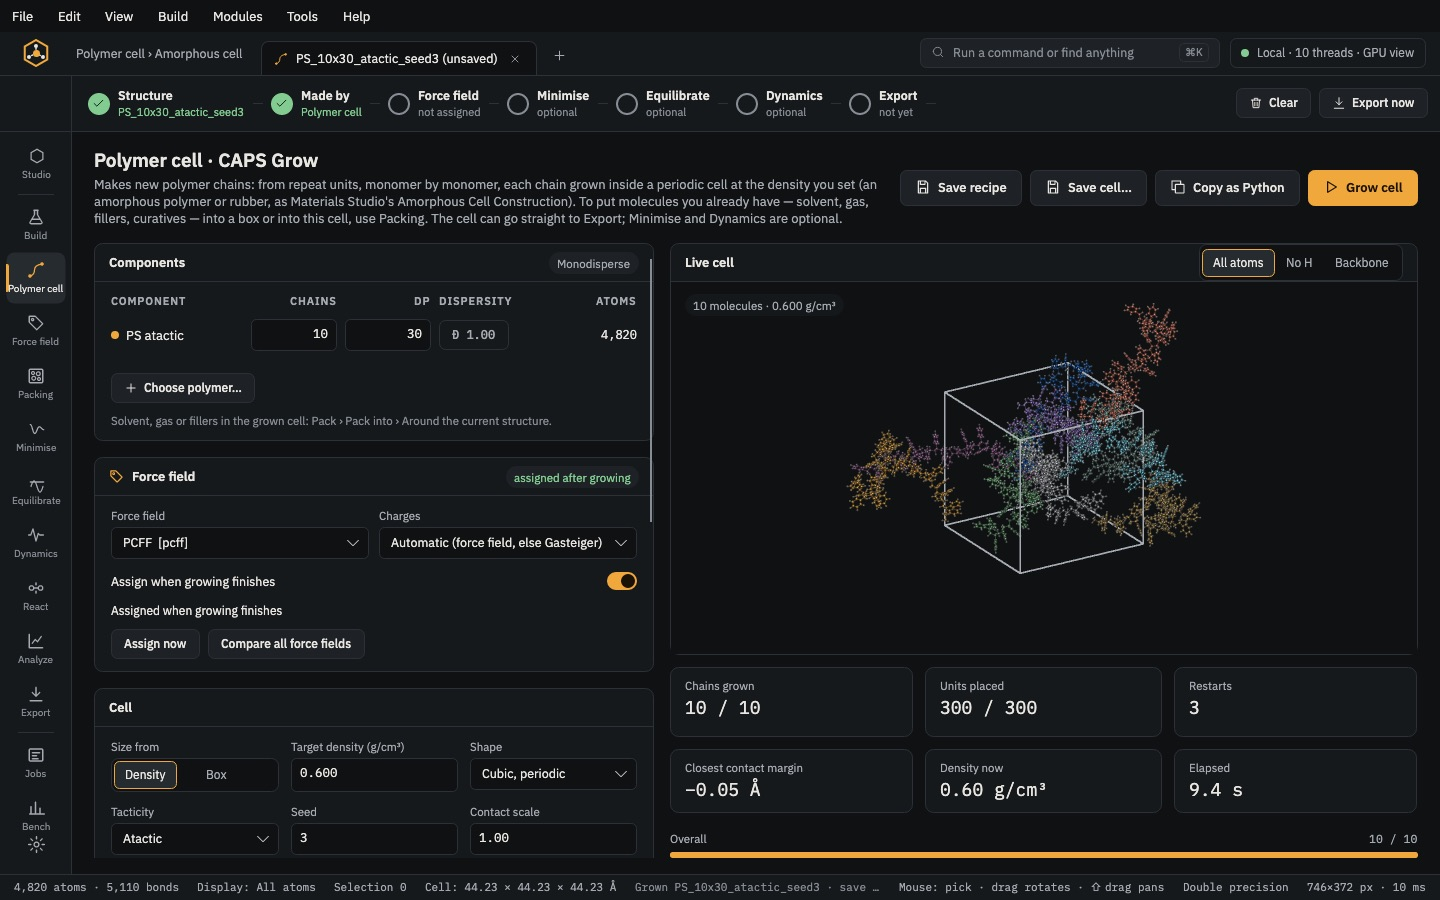
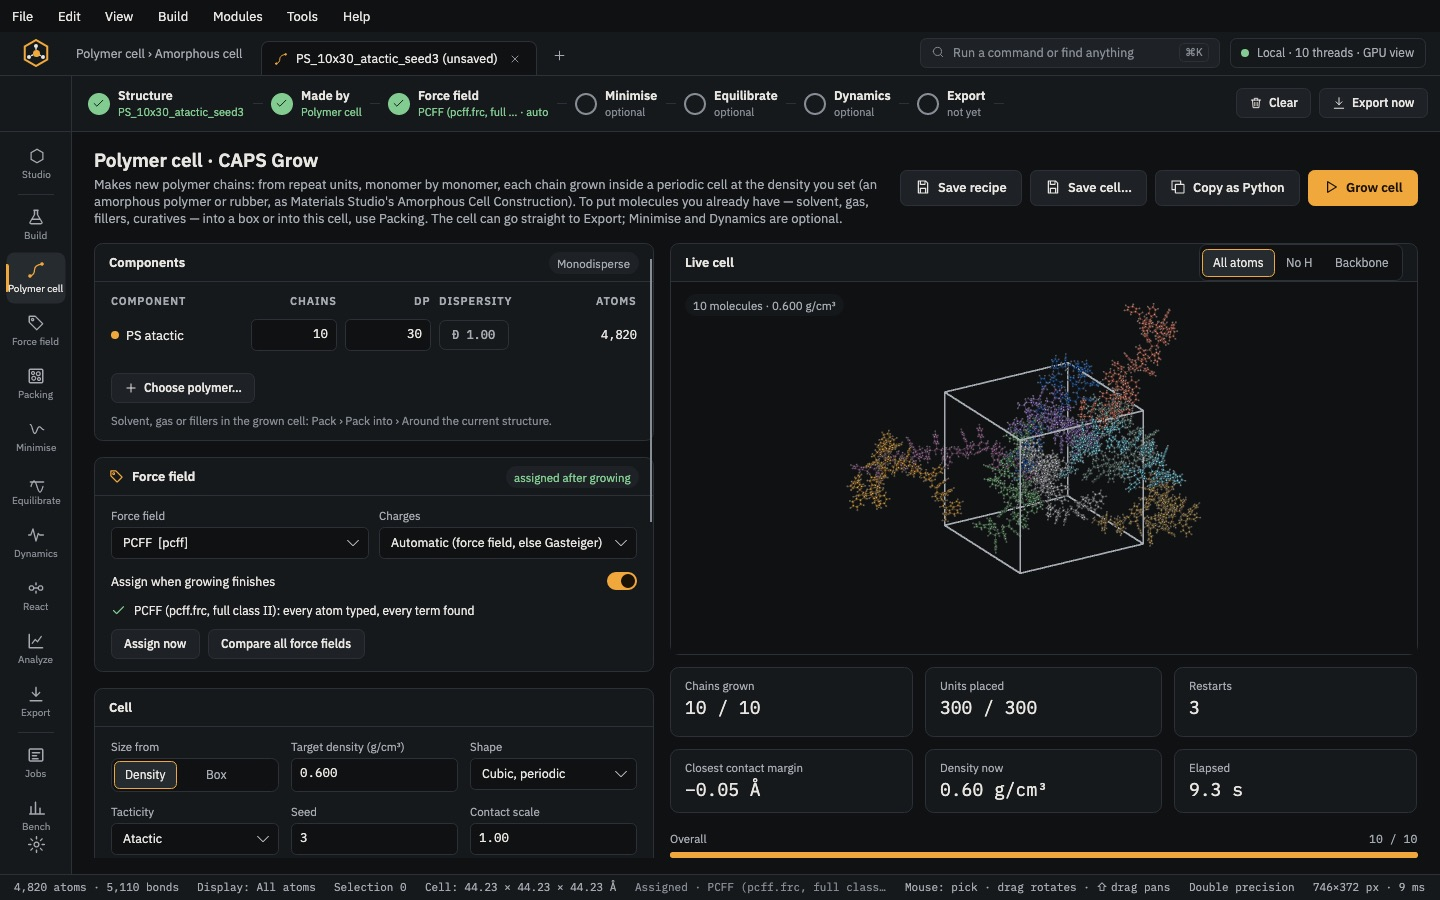
Manual: PCFF screenshots of the grown cell (typed, checked, LAMMPS ready; GROMACS refused for class II)

diff --git a/docs/manual/index.html b/docs/manual/index.html
@@ -160,7 +160,7 @@ dialog img{max-width:96vw;max-height:94vh;display:block;border-radius:6px;cursor
     <li><div><b>Minimise.</b> Removes close contacts left by growing. Turn on compression here to bring a low-density cell up to its target density.</div></li>
     <li><div><b>Equilibrate.</b> Pick a published protocol, such as the Larsen et al. 21-step (2011), and set the final T and P. You can add production blocks that run until density, energy and Rg stop drifting.</div></li>
     <li><div><b>Dynamics</b> (optional) for NVT or NPT runs inside CAPS, then <b>Analyze</b> for density, g(r), Tg, moduli and diffusion.</div></li>
-    <li><div><b>Export.</b> Write a LAMMPS deck (<code>lmp -in STEM.in</code>) or GROMACS files (top, itp, gro, mdp). DL_POLY 4 and AMBER/OpenMM (prmtop, inpcrd) are also available.</div></li>
+    <li><div><b>Export.</b> Write a LAMMPS deck (<code>lmp -in STEM.in</code>) or GROMACS files (top, itp, gro, mdp). DL_POLY 4 and AMBER/OpenMM (prmtop, inpcrd) are also available. Class II force fields such as PCFF and COMPASS go to LAMMPS only. GROMACS has no class II functional form, and the page says so rather than writing an approximate file.</div></li>
   </ol>
   <div class="grid2">
     <figure><button type="button" aria-label="Enlarge"><img src="img/04_polymer.jpg" alt="Polymer builder with styrene" loading="lazy"></button><figcaption><b>Step 1.</b> Polymer builder with styrene, atactic, DP 8 preview.</figcaption></figure>
@@ -311,7 +311,7 @@ dialog img{max-width:96vw;max-height:94vh;display:block;border-radius:6px;cursor
 <section id="f-field">
   <h2>Force field</h2>
   <figure><button type="button" aria-label="Enlarge"><img src="img/06_field.jpg" alt="Force field typing report" loading="lazy"></button>
-    <figcaption><b>Force field · typing report.</b> Every atom with its type, charge, the SMARTS rule that typed it and the rule file.</figcaption></figure>
+    <figcaption><b>Force field · typing report</b> for the grown PCFF cell: 4,820 atoms typed, 0 missing terms. The panel on the right lists the other force fields that also describe the structure completely. </figcaption></figure>
   <ul>
     <li>Choose the force field and the charges, then press <span class="ui">Assign · retype all</span>. The chips above the table show typed, untyped, missing terms, estimated terms and net charge.</li>
     <li>Click a row, or an atom in 3D, to see the rule that matched and the other rules it also matched. You can override the type by hand.</li>
@@ -412,7 +412,7 @@ dialog img{max-width:96vw;max-height:94vh;display:block;border-radius:6px;cursor
 <section id="f-export">
   <h2>Export</h2>
   <figure><button type="button" aria-label="Enlarge"><img src="img/19_export.jpg" alt="Export page" loading="lazy"></button>
-    <figcaption><b>Export.</b> The structure with its force field for LAMMPS and GROMACS, and optionally DL_POLY 4, AMBER/OpenMM or moltemplate.</figcaption></figure>
+    <figcaption><b>Export.</b> The PCFF polystyrene cell: every check is green, and the LAMMPS data and input files are ready. GROMACS is refused for class II and the reason is shown.</figcaption></figure>
   <ul>
     <li><b>LAMMPS:</b> the force field's own styles (or hybrid), electrostatics, cut-off, k-space accuracy and units. The run protocol covers T, P, time step, steps, minimise first and bond constraints.</li>
     <li><b>Checked before writing:</b> CAPS lists anything that would stop the deck running. For example, if no force field is assigned, it offers <span class="ui">Open the Force field step</span>.</li>
